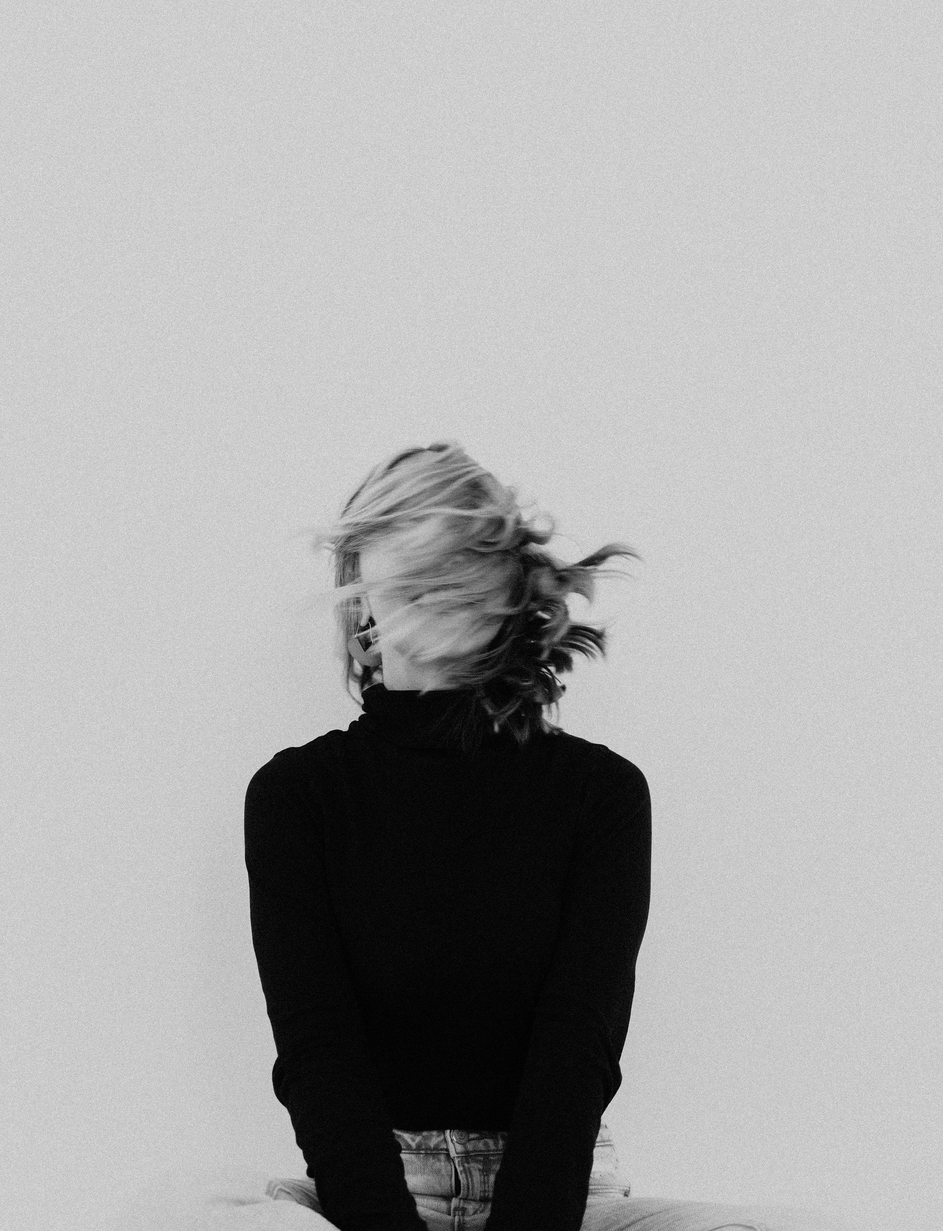
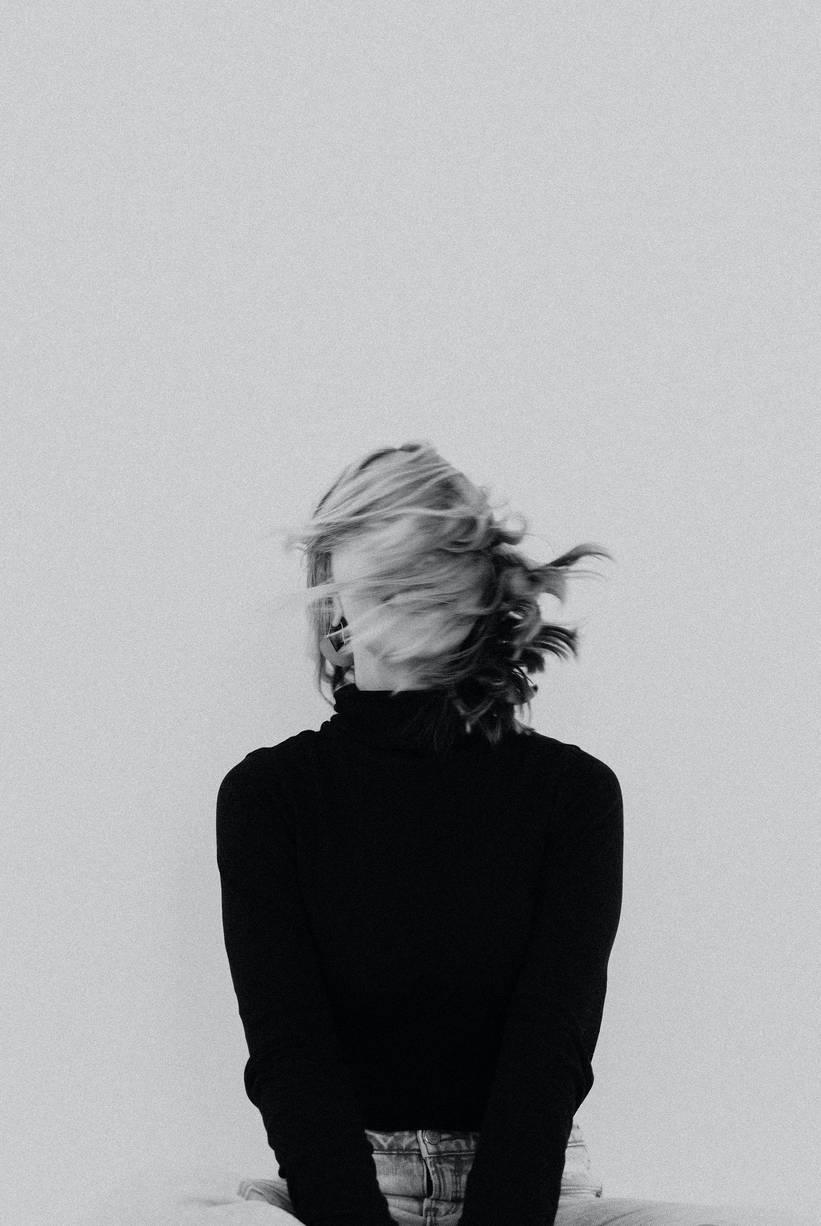
Final product?

diff --git a/css/styles.css b/css/styles.css
@@ -2,26 +2,38 @@
   padding: 0;
   margin: 0;
   box-sizing: border-box;
-  border: 1px solid red;
+  font-family: "Times New Roman", serif;
 }
 
 h1, h2 {
   text-align: center;
-  margin: auto;
+  color: #FFFBFA;
+
+}
+
+.flowers {
+  color: #363838;
+  background-color: #BFC7C7;
+  padding: 20px;
+}
+
+h1 {
+  font-size: 56pt;
+  font-weight: bold;
 }
 
 h3 {
   display: block;
-  padding: 5px;
-  margin-left: 15px;
+  padding: 5px 25px;
+  margin: 10px;
   text-decoration: underline;
   font-family: "Times New Roman", serif;
 }
 
 h4 {
   display: block;
-  padding: 5px;
-  margin-left: 15px;
+  padding: 0px 25px;
+  margin: 0px 10px;
   font-style: italic;
   font-family: "Times New Roman", serif;
   font-size: 14pt;
@@ -47,6 +59,21 @@ ul {
   list-style: none;
 }
 
+li a {
+  color: #363838;
+  text-align: center;
+  height: 100%;
+  width: 100%;
+}
+
+li a:hover {
+  color: #EBF5F5;
+  text-decoration: underline;
+}
+li a:active {
+  color: #e1f3f5;
+}
+
 .page {
   width: 100%;
   height: 100%;
@@ -56,18 +83,48 @@ ul {
   padding-bottom: 50px;
 }
 
-.headbox {
-  display: flex;
-  flex-direction: column;
-  justify-content: center;
-  height: 600px;
+.frontpage {
   width: 100%;
+  height: 100%;
+  position: relative;
+  min-height: 100vw;
+  background-color: #FFFBFA;
+  padding-bottom: 50px;
   background-image: url(/photosbio/StudioNoire-157.jpg);
   background-position: center center;
   background-size: cover;
   background-repeat: no-repeat;
   background-attachment: fixed;
-  background-color: #FFFBFA;
+}
+
+.bg-light {
+  background-color: #FFFBFA !important;
+}
+
+.navbar-light .navbar-nav .active>.nav-link, .navbar-light .navbar-nav .nav-link.active, .navbar-light .navbar-nav .nav-link.show, .navbar-light .navbar-nav .show>.nav-link {
+    color: #C7D1D1;
+}
+
+.navbar-light .navbar-nav .nav-link {
+    color: #363838;
+}
+
+.navbar-light .navbar-nav .nav-link:focus, .navbar-light .navbar-nav .nav-link:hover {
+    color: #D7E0E0;
+}
+
+.headbox {
+  display: flex;
+  flex-direction: column;
+  justify-content: center;
+  align-items: center;
+  height: 600px;
+  width: 100%;
+  background-color: transparent;
+  background-position: center center;
+  background-size: cover;
+  background-repeat: no-repeat;
+  background-attachment: fixed;
 }
 
 .sub-headbox {
@@ -90,10 +147,13 @@ ul {
   height: 400px;
   width: 100%;
   padding: 25px;
+  margin: 15px 0px;
+  background-color: #363838;
 }
 
 .col-item h2 {
   text-align: left;
+  color: #C7D1D1;
 }
 
 .image-container {
@@ -104,7 +164,7 @@ ul {
   width: 100%;
 }
 
-@media screen and (min-width: 800px) {
+@media screen and (min-width: 900px) {
   .image-container {
     flex-direction: row;
   }
@@ -128,16 +188,25 @@ ul {
   align-items: center;
 }
 
+.bio-container p {
+  font-family: "Times New Roman", sans-serif;
+  font-size: 18pt;
+  text-align: center;
+  color: #363838;
+}
+
 .poem-navigator {
   display: flex;
-  justify-content: center;
+  flex-direction: row;
   align-items: center;
-  height: 40px;
+  background-color: #BFC7C7;
 }
 
 .poem-navigator ul {
   display: flex;
+  flex-direction: column;
   justify-content: space-around;
+  align-items: center;
   height: 100%;
   width: 100%;
 }
@@ -145,6 +214,17 @@ ul {
 .poem-navigator ul li {
   display: flex;
   padding: 10px 15px;
+}
+
+@media screen and (min-width: 920px) {
+  .poem-navigator ul {
+    justify-content: center;
+    flex-direction: row;
+  }
+
+  .poem-navigator ul li {
+    margin: 22px 35px;
+  }
 }
 
 .poem-arranger {
@@ -158,16 +238,22 @@ ul {
 .poem-arranger .poem-container {
   display: flex;
   flex-direction: column;
-  justify-content: flex-start;
+  justify-content: center;
+  align-items: center;
   width: 80%;
-  margin-bottom: 40px;
+  margin: 60px 0px 70px 0px;
+  padding: 5%
+}
+
+#glossed, #mother {
+  background-color: #BFC7C7;
 }
 
 .footer {
   position: absolute;
   bottom: 0;
   width: 100%;
-  background-color: #636363;
+  background-color: #BFC7C7;
   display: flex;
   justify-content: center;
   align-items: center;
@@ -180,15 +266,15 @@ ul {
 }
 
 .footer-item a {
-  color: #FFF1E3;
+  color: #363838;
   text-decoration: none;
 }
 
 .footer-item a:hover {
-  color: #FFFBFA;
+  color: #EBF5F5;
   text-decoration: underline;
 }
 
 .footer-item a:active {
-  color: #FFE6CF;
+  color: #e1f3f5;
 }

diff --git a/index.html b/index.html
@@ -8,7 +8,7 @@
     <title>Lindsay Camille Poetry</title>
   </head>
   <body>
-    <div class='page'>
+    <div class='frontpage'>
       <nav class="navbar navbar-expand-lg navbar-light bg-light">
         <a class="navbar-brand" href="/index.html">Lindsay Camille</a>
         <button class="navbar-toggler" type="button" data-toggle="collapse" data-target="#navbarNav" aria-controls="navbarNav" aria-expanded="false" aria-label="Toggle navigation">
@@ -35,13 +35,13 @@
 
       <div class="row align-items-center">
         <div class="col-sm">
-          <div class="col-item"><h2>"Quote quote quote"</h2></div>
+          <div class="col-item"><h2>"Does the tide ever tire of pleasing the moon?"</h2></div>
         </div>
         <div class="col-sm">
-          <div class="col-item"><h2>"Quote quote quote"</h2></div>
+          <div class="col-item"><h2>"When it rains the brush by my house turns purple and it reminds me that the world bruises too"</h2></div>
         </div>
         <div class="col-sm">
-          <div class="col-item"><h2>"Quote quote quote"</h2></div>
+          <div class="col-item"><h2>"I’ll make friends with every imperfect end."</h2></div>
         </div>
       </div>
 

diff --git a/pages/about.html b/pages/about.html
@@ -31,13 +31,13 @@
       <div class="headbox" style="background-image: url(/photosbio/StudioNoire-40.jpg)">
         <h1>Meet the Author</h1>
       </div>
+      <div class="bio-container">
+        <p>"I'm Lindsay-- writer, artist, and lover of warm summer nights. <br/> BA in English Literature, intern editor for <em>Elsewhere Magazine</em>, and winner of the Carolyn Barnes Poetry Award 2020."</p>
+      </div>
       <div class="image-container">
         <div class="imgItem"><img src="/photosbio/StudioNoire-164.jpg"/></div>
         <div class="imgItem"><img src="/photosbio/StudioNoire-115.jpg"/></div>
         <div class="imgItem"><img src="/photosbio/StudioNoire-167.jpg"/></div>
-      </div>
-      <div class="bio-container">
-        <p>I'm Lindsay-- writer, artist, and lover of warm summer nights. BA in English Literature, intern editor for Elsewhere Magazine, and winner of the Carolyn Barnes Poetry Award 2020.</p>
       </div>
 
       <footer class="footer">

diff --git a/pages/poetry.html b/pages/poetry.html
@@ -28,8 +28,8 @@
           </ul>
         </div>
       </nav>
-      <div class="sub-headbox" style="background-image: url()">
-          <h1>My Poems</h1>
+      <div class="sub-headbox" style="background-image: url(/photosbio/TREE.jpg)">
+          <h1 class="flowers">My Poems</h1>
       </div>
 
       <div class="poem-navigator">
